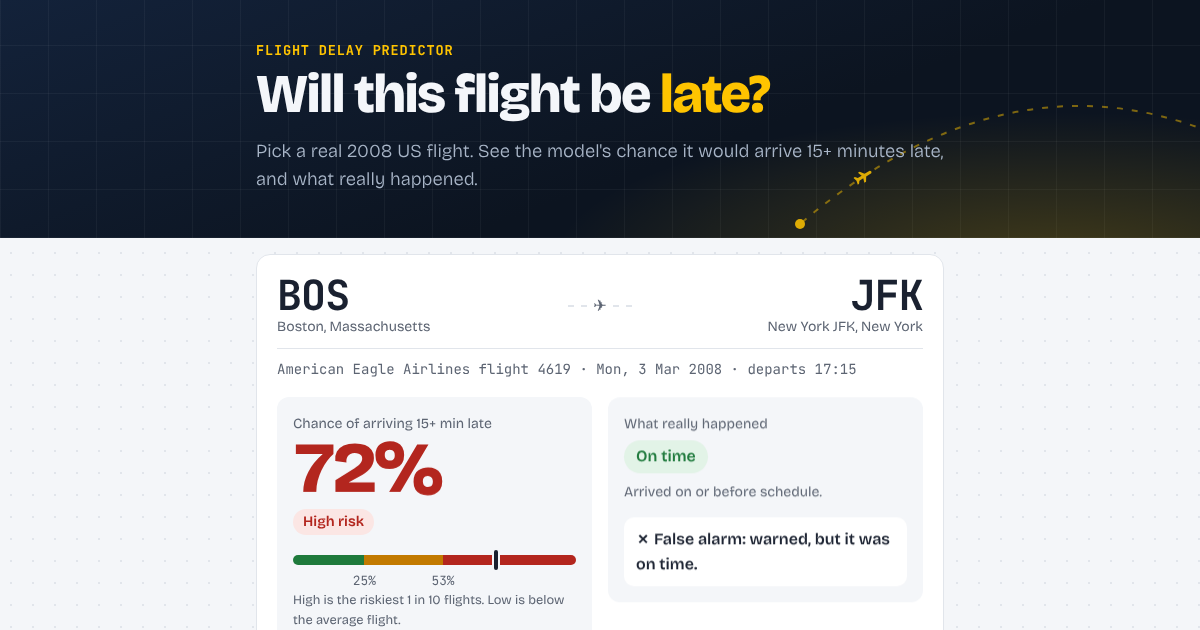
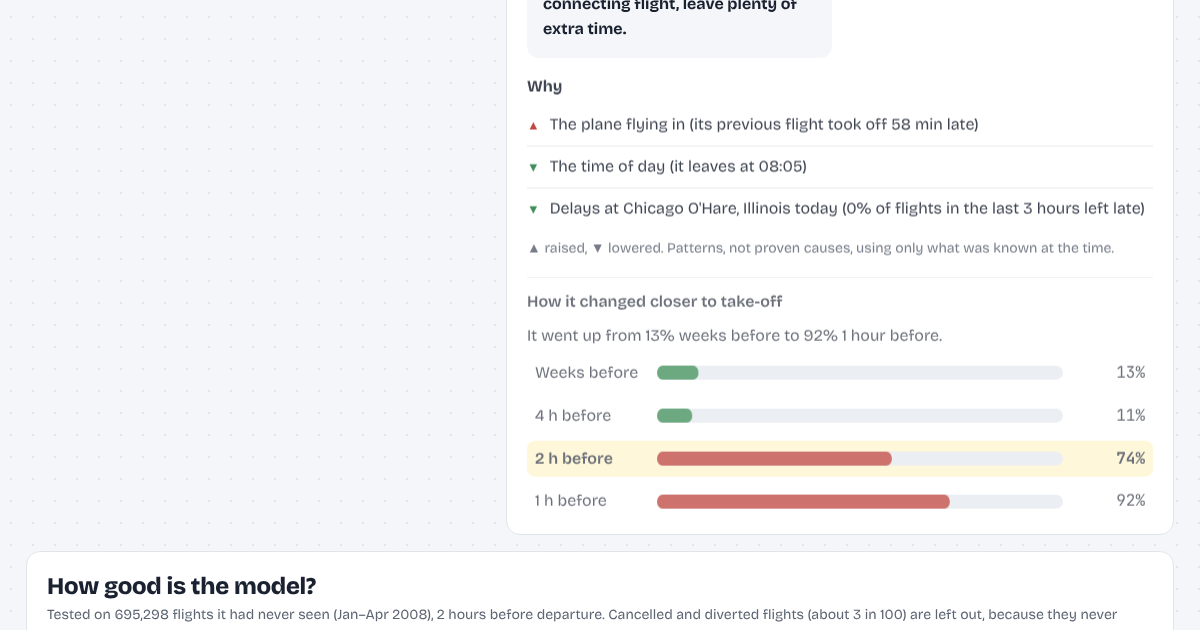
Put the answer and the proof first on the demo
- Once a flight is shown, the route and calendar fold into one line
  ("SFO → LAX · Wed, 12 Mar · 21:25 · AA 1957" + Change), below 1100px.
- Header strip: 74 / 100 warnings were right, 3x better than guessing,
  695,298 unseen test flights (filled from data.summary).
- Verdict box coloured by outcome: green right, amber false alarm,
  red miss.
- One accent: airport-sign yellow with dark text (buttons, chosen
  chips, model bar); no more blue.
- Destination labels drop the flight count; the meter and Why notes
  are one short line each (still saying only what was known then).
- Phones: every control at least 44px, time buttons as one row
  (Weeks / 4 h / 2 h / 1 h), shorter header.
- Visible keyboard focus ring.
- 1100px and wider: picker on the left, answer on the right.
No model, data file or published number changed.

Claude-Session: https://claude.ai/code/session_018r4oSc3BkHHSBWiZ7iPU8M

diff --git a/docs/index.html b/docs/index.html
@@ -21,15 +21,18 @@
 <style>
   :root {
     --bg: #f4f6f9; --card: #ffffff; --text: #1a2130; --muted: #5d6573; --line: #e1e5eb;
-    --accent: #1f5fa8; --accent-soft: #e3edf8;
+    /* One accent everywhere: airport-sign yellow, always with dark text on it (yellow text on white is unreadable) */
+    --accent: #ffc400; --accent-soft: #fff3c4; --on-accent: #11141a; --focus: #8a6400;
     --late: #b3261e; --late-soft: #fbe6e4; --ok: #1e7a3c; --ok-soft: #e2f3e7; --mid: #c27a00;
+    --mid-soft: #fbefd9; --mid-text: #8a5500;
     --hero: #0c1420; --hero-text: #f4f6fa; --hero-muted: #a9b6c8; --signal: #ffc400;
   }
   @media (prefers-color-scheme: dark) {
     :root {
       --bg: #11141a; --card: #1a1f28; --text: #e8ebf0; --muted: #a2a9b5; --line: #2c3340;
-      --accent: #7fb0eb; --accent-soft: #22344a;
+      --accent: #ffc400; --accent-soft: #3b3312; --on-accent: #11141a; --focus: #ffc400;
       --late: #f08a82; --late-soft: #452321; --ok: #7fd197; --ok-soft: #1e3827; --mid: #e3a94f;
+      --mid-soft: #3d2e14; --mid-text: #e3a94f;
       --hero: #070c14; --hero-text: #f4f6fa; --hero-muted: #a9b6c8; --signal: #ffc400;
     }
   }
@@ -63,6 +66,9 @@
   .hero-inner { max-width: 688px; margin: 0 auto; }
   .hero .eyebrow { color: var(--signal); }
   .hero .lead { color: var(--hero-muted); margin: 0; }
+  .hero-stats { list-style: none; display: flex; flex-wrap: wrap; gap: 8px 22px; padding: 0; margin: 18px 0 0; }
+  .hero-stats li { color: var(--hero-muted); font-size: 0.95rem; }
+  .hero-stats strong { color: var(--accent); font-family: "JetBrains Mono", ui-monospace, monospace; font-size: 1.15rem; }
   main > .card:first-child { margin-top: 24px; box-shadow: 0 8px 24px rgba(16, 32, 64, 0.12); }
 
   /* The flight's route, laid out like a boarding pass: big airport codes, city names under them */
@@ -91,11 +97,22 @@
   .eyebrow { margin: 0 0 6px; color: var(--accent); font-weight: 700; font-size: 0.85rem;
              text-transform: uppercase; letter-spacing: 0.06em; }
   p { margin: 0 0 12px; }
-  a { color: var(--accent); }
+  a { color: var(--text); text-decoration-color: var(--accent); text-decoration-thickness: 2px; text-underline-offset: 3px; }
+  /* A clear ring for keyboard users, in the accent; darker on light pages so it stands out on white */
+  :focus-visible { outline: 3px solid var(--focus); outline-offset: 2px; }
   .lead { color: var(--muted); font-size: 1.15rem; font-weight: 300; }
   .small { color: var(--muted); font-size: 0.875rem; }
   .card { background: var(--card); border: 1px solid var(--line); border-radius: 14px;
           padding: 20px; margin-top: 16px; }
+
+  /* Folded: one summary line instead of the route and calendar; booking apps do the same after you pick */
+  .chosen-line { display: none; align-items: center; justify-content: space-between; gap: 12px; }
+  .chosen-line strong { display: block; font-family: "JetBrains Mono", ui-monospace, monospace; font-size: 1.15rem; }
+  .chosen-line .small { font-family: "JetBrains Mono", ui-monospace, monospace; }
+  .chosen-line button { width: auto; cursor: pointer; white-space: nowrap; flex: none; }
+  .picker-card.folded .chosen-line { display: flex; }
+  .picker-card.folded .picker, .picker-card.folded #check, .picker-card.folded #sample-hint { display: none; }
+  .picker-card.folded .when { margin-top: 14px; }
 
   /* The search box: two drop-downs for the route, then a calendar for the day, like a flight-booking site */
   .search { display: grid; grid-template-columns: repeat(2, 1fr); gap: 12px; }
@@ -107,7 +124,7 @@
   .months button, .departures button { width: auto; padding: 6px 12px; border-radius: 999px; cursor: pointer;
     font-size: 0.9rem; }
   .months button[aria-pressed="true"], .departures button[aria-pressed="true"] {
-    background: var(--accent-soft); border-color: var(--accent); color: var(--accent); font-weight: 600; }
+    background: var(--accent-soft); border-color: var(--accent); color: var(--text); font-weight: 600; }
   .months button:disabled { opacity: 0.4; cursor: default; }
   .cal-grid { display: grid; grid-template-columns: repeat(7, minmax(0, 44px)); gap: 4px; }
   .cal-grid .dow { font-family: "JetBrains Mono", monospace; font-size: 0.7rem; color: var(--muted);
@@ -119,7 +136,7 @@
   .cal-grid button.has { font-weight: 700; cursor: pointer; }
   /* The dot under the number marks a day with a flight */
   .cal-grid button.has::after { content: ""; position: absolute; left: 50%; bottom: 5px; width: 4px; height: 4px;
-    margin-left: -2px; border-radius: 50%; background: var(--accent); }
+    margin-left: -2px; border-radius: 50%; background: var(--muted); }
   /* The chosen day in airport-sign yellow, the page's one accent */
   .cal-grid button[aria-pressed="true"] { background: var(--signal); border-color: var(--signal); color: #11141a; }
   .cal-grid button[aria-pressed="true"]::after { background: #11141a; }
@@ -137,14 +154,14 @@
   .when-label { font-size: 0.8rem; font-weight: 600; color: var(--muted); text-transform: uppercase;
                 letter-spacing: 0.03em; margin-right: 4px; }
   #when { display: flex; flex-wrap: wrap; gap: 8px; }
+  #when .short { display: none; }
   #when button { width: auto; padding: 6px 12px; border-radius: 999px; cursor: pointer; font-size: 0.9rem; }
   #when button[aria-pressed="true"] { background: var(--accent-soft); border-color: var(--accent);
-                                      color: var(--accent); font-weight: 600; }
+                                      color: var(--text); font-weight: 600; }
   .actions { display: flex; flex-wrap: wrap; gap: 12px; align-items: center; margin-top: 14px; }
   .actions button { width: auto; cursor: pointer; }
-  button.primary { background: var(--accent); border-color: var(--accent); color: #fff; font-weight: 600; }
-  @media (prefers-color-scheme: dark) { button.primary { color: #11141a; } }
-  button.secondary { background: var(--card); border-color: var(--accent); color: var(--accent); font-weight: 600; }
+  button.primary { background: var(--accent); border-color: var(--accent); color: var(--on-accent); font-weight: 700; }
+  button.secondary { background: var(--card); border-color: var(--text); color: var(--text); font-weight: 600; }
 
   /* The answer */
   .example-note { margin: 0 0 12px; padding: 8px 12px; border-left: 3px solid var(--signal); background: var(--bg);
@@ -172,7 +189,12 @@
   .why-list .arrow { font-size: 0.8rem; flex: none; }
   .why-list .up .arrow { color: var(--late); }
   .why-list .down .arrow { color: var(--ok); }
-  .judgement { margin: 14px 0 0; padding: 10px 12px; border-radius: 10px; background: var(--card); font-weight: 600; }
+  .judgement { margin: 14px 0 0; padding: 10px 12px; border-radius: 10px; background: var(--card); font-weight: 600;
+               border-left: 4px solid var(--line); }
+  /* Right or wrong at a glance: green when the model was right, amber for a false alarm, red for a miss */
+  .judgement.right { background: var(--ok-soft); color: var(--ok); border-left-color: var(--ok); }
+  .judgement.false-alarm { background: var(--mid-soft); color: var(--mid-text); border-left-color: var(--mid); }
+  .judgement.missed { background: var(--late-soft); color: var(--late); border-left-color: var(--late); }
   details { margin-top: 14px; border-top: 1px solid var(--line); padding-top: 12px; }
   summary { cursor: pointer; font-weight: 600; }
   .time-row { display: grid; grid-template-columns: 7rem 1fr 4.5rem; white-space: nowrap; gap: 10px; align-items: center;
@@ -199,7 +221,7 @@
   .bar-row.compare-row { grid-template-columns: 11rem 1fr 5.5rem; }
   .compare-row .num { white-space: nowrap; }
   .bar-fill.model { background: var(--accent); }
-  .model-score { color: var(--accent); }
+  .model-score { color: var(--text); }
   .bar-fill.random { background: var(--muted); }
   .score { margin: 10px 0 12px; }
   .tip { margin: 10px 0 0; font-weight: 700; }
@@ -218,6 +240,23 @@
     .actions { display: grid; grid-template-columns: 1fr 1fr; gap: 10px; }
     .actions .primary { grid-column: 1 / -1; }
     .actions button { width: 100%; padding: 10px 6px; font-size: 0.9rem; }
+    /* Thumb-sized: every tappable control at least 44px tall */
+    .months button, .departures button, #when button, .actions button, .chosen-line button, select { min-height: 44px; }
+    .cal-grid button { height: 44px; }
+    #when { display: grid; grid-template-columns: repeat(4, 1fr); width: 100%; gap: 6px; }
+    #when button { width: 100%; padding: 6px 4px; }
+    #when .long { display: none; }
+    #when .short { display: inline; }
+    /* Phone: a shorter header, so the picked flight's answer starts on the first screen */
+    .hero { padding: 28px 16px 26px; }
+    .hero .lead { font-size: 1rem; }
+    .hero-stats { display: grid; grid-template-columns: repeat(3, 1fr); gap: 10px; margin-top: 16px; }
+    .hero-stats li { font-size: 0.75rem; line-height: 1.3; }
+    .hero-stats strong { display: block; font-size: 1.05rem; }
+    .chosen-line button { padding: 8px 12px; font-size: 0.9rem; }
+    main { padding-top: 0; }
+    main > .card:first-child { margin-top: 14px; }
+    .hero .eyebrow { display: none; }  /* the title says it; every line counts on a phone */
     main { padding-top: 24px; }
     h1 { font-size: 2.4rem; }
     .big, .score .big { font-size: 3.6rem; }
@@ -228,6 +267,18 @@
     .time-row { grid-template-columns: 6.9rem 1fr 4.2rem; gap: 8px; padding: 6px; }
     /* Phone: a smaller arc tucked in the corner, under the search card's edge, clear of the text */
     .hero .route-art { width: 240px; right: -50px; bottom: -14px; opacity: 0.6; }
+  }
+
+  @media (min-width: 1100px) {
+    main { max-width: 1180px; display: grid; grid-template-columns: 460px 1fr; gap: 0 20px; align-items: start; }
+    .hero-inner { max-width: 1148px; }
+    main > #result { grid-column: 2; grid-row: 1 / span 2; margin-top: 24px; }
+    main > .card:not(.picker-card):not(#result), main > footer { grid-column: 1 / -1; }
+    /* Both are on screen side by side, so the picker never needs to fold */
+    .picker-card.folded .picker { display: block; }
+    .picker-card.folded #check { display: inline-block; }
+    .picker-card.folded .chosen-line { display: none; }
+    .search, .cal-body { grid-template-columns: 1fr; }
   }
 
   /* ---------- Motion: one staggered entrance on load, a split-flap flip when a flight appears ---------- */
@@ -272,11 +323,19 @@
     <h1>Will this flight be <em class="hl">late?</em></h1>
     <p class="lead">Pick a real 2008 US flight. See the model's chance it would arrive 15+ minutes late, and what
       really happened.</p>
+    <!-- The proof up front, so it's seen without scrolling; filled from the same summary as the score card -->
+    <ul class="hero-stats" id="hero-stats"></ul>
   </div>
 </header>
 <main>
 
-  <section class="card">
+  <section class="card picker-card" id="picker-card">
+    <!-- Once a flight is on screen, the route and calendar fold into this line, so the answer sits near the top -->
+    <div class="chosen-line">
+      <span id="chosen-summary"></span>
+      <button type="button" class="secondary" id="change" aria-controls="picker">Change</button>
+    </div>
+    <div class="picker" id="picker">
     <div class="search">
       <label>From <select id="airport"></select></label>
       <label>To <select id="destination"></select></label>
@@ -288,6 +347,7 @@
         <div class="cal-grid" id="cal-grid"></div>
         <div><p class="small dep-title" id="dep-title"></p><div class="departures" id="departures"></div></div>
       </div>
+    </div>
     </div>
     <div class="when" role="group" aria-label="When to predict">
       <span class="when-label">When to predict</span>
@@ -358,6 +418,7 @@ const depTitle = document.getElementById("dep-title");
 let chosenFlight = null;  // the flight picked in the calendar, shown by "Check flight"
 let shownMonth = null;    // the calendar month on screen, e.g. "2008-02"
 const result = document.getElementById("result");
+const pickerCard = document.getElementById("picker-card");
 let data, flights;
 
 // "1805" -> "18:05"
@@ -428,7 +489,7 @@ function fillDestinations() {
   const counts = countBy(flights.filter(f => f.origin === airport.value), "dest");
   const codes = Object.keys(counts).sort((a, b) => counts[b] - counts[a]);
   destination.innerHTML = codes.map(code =>
-    `<option value="${code}">${code} · ${place(code)} (${counts[code]} ${counts[code] === 1 ? "flight" : "flights"})</option>`).join("");
+    `<option value="${code}">${code} · ${place(code)}</option>`).join("");
 }
 
 function flightsOnRoute() {
@@ -526,8 +587,7 @@ function reasons(f) {
   const note = chosenTime === "risk_2h" ? "" : " (2-hour prediction)";
   return `<div class="reasons"><p><strong>Why</strong>${note}</p>
     <ul class="why-list">${rows}</ul>
-    <p class="small">▲ raised the chance, ▼ lowered it. These are what the model weighed most, not proven causes,
-      and it only uses what was known at the time.</p></div>`;
+    <p class="small">▲ raised, ▼ lowered. Patterns, not proven causes, using only what was known at the time.</p></div>`;
 }
 
 
@@ -569,10 +629,17 @@ function meter(f, field) {
         <span style="left:${pct(cutoff)}">${percent(cutoff)}</span>
       </div>
     </div>
-    <p class="meter-note">High is the riskiest 1 in 10 flights. Low is below the average flight.</p>`;
+    <p class="meter-note">High: the riskiest 1 in 10 flights. Low: below average.</p>`;
 }
 
 // Was the model right? Judged by the warning list, the same yardstick as the results
+// Which kind of result this is, for the verdict box's colour
+function outcome(f, field) {
+  const warned = onWarningList(f, field);
+  if (warned === Boolean(f.late)) return "right";
+  return warned ? "false-alarm" : "missed";
+}
+
 function judgement(f, field) {
   const warned = onWarningList(f, field);
   if (warned && f.late) return "✓ Caught it: warned, and it was late.";
@@ -619,6 +686,7 @@ function barsOverTime(f) {
 
 function showFlight(f) {
   shownFlight = f;
+  fold(f);
   const level = riskLevel(f, chosenTime);
   const verdict = f.late
     ? `<span class="verdict late">Late by ${duration(f.arrival_delay)}</span>`
@@ -649,7 +717,7 @@ function showFlight(f) {
         ${verdict}
         <div class="small" style="margin-top:8px">${f.late ? "" : f.arrival_delay > 0
           ? `Arrived ${f.arrival_delay} min late, under the 15-minute line.` : "Arrived on or before schedule."}</div>
-        <p class="judgement">${judgement(f, chosenTime)}</p>
+        <p class="judgement ${outcome(f, chosenTime)}">${judgement(f, chosenTime)}</p>
       </div>
     </div>
     ${reasons(f)}
@@ -664,12 +732,21 @@ function showFlight(f) {
 function fillTimeButtons() {
   const holder = document.getElementById("when");
   holder.innerHTML = TIMES.map(([field, label]) =>
-    `<button type="button" data-field="${field}" aria-pressed="${field === chosenTime}">${label}</button>`).join("");
+    // Phones show the short form ("4 h") so all four fit on one row
+    `<button type="button" data-field="${field}" aria-pressed="${field === chosenTime}" aria-label="${label}">` +
+    `<span class="long">${label}</span><span class="short" aria-hidden="true">${label.replace("Weeks before", "Weeks").replace(" hours before", " h").replace(" hour before", " h")}</span></button>`).join("");
   holder.querySelectorAll("button").forEach(button => button.addEventListener("click", () => {
     chosenTime = button.dataset.field;
     holder.querySelectorAll("button").forEach(b => b.setAttribute("aria-pressed", b === button));
     if (shownFlight) showFlight(shownFlight);
   }));
+}
+
+// Fold the picker into one line naming the flight on screen
+function fold(f) {
+  document.getElementById("chosen-summary").innerHTML = `<strong>${f.origin} → ${f.dest}</strong>` +
+    `<span class="small">${niceDate(f.date).replace(" 2008", "")} · ${clock(f.scheduled_departure)} · ${f.carrier} ${f.flight_number}</span>`;
+  pickerCard.classList.add("folded");
 }
 
 function showChosenFlight() {
@@ -741,6 +818,11 @@ function fillStats() {
   const average = s.late_overall;
   // The score is the warning list's hit rate: literally true, and easy to compare with guessing
   document.getElementById("warned").innerHTML = `${per100(warned)} <small>/ 100</small>`;
+  document.getElementById("hero-stats").innerHTML = [
+    `<strong>${per100(warned)} / 100</strong> warnings were right`,
+    `<strong>${Math.round(warned / average)}×</strong> better than guessing`,
+    `<strong>${s.flights.toLocaleString("en-GB")}</strong> unseen test flights`,
+  ].map(item => `<li>${item}</li>`).join("");
   document.getElementById("warned-sentence").textContent =
     `Out of every 100 flights it warned about, ${per100(warned)} really were late.`;
   // Two bars: the model's warning list (blue, the page's main colour) against flights picked at random (grey)
@@ -797,6 +879,11 @@ fetch("flights.json")
     airport.addEventListener("change", () => { fillDestinations(); fillFlights(); });
     destination.addEventListener("change", fillFlights);
     document.getElementById("check").addEventListener("click", showChosenFlight);
+    // Unfold to pick another flight; the one on screen stays until "Check flight" is pressed
+    document.getElementById("change").addEventListener("click", () => {
+      pickerCard.classList.remove("folded");
+      airport.focus();
+    });
     document.getElementById("risky").addEventListener("click", showRiskyFlight);
     document.getElementById("mistake").addEventListener("click", showMistake);
   });
